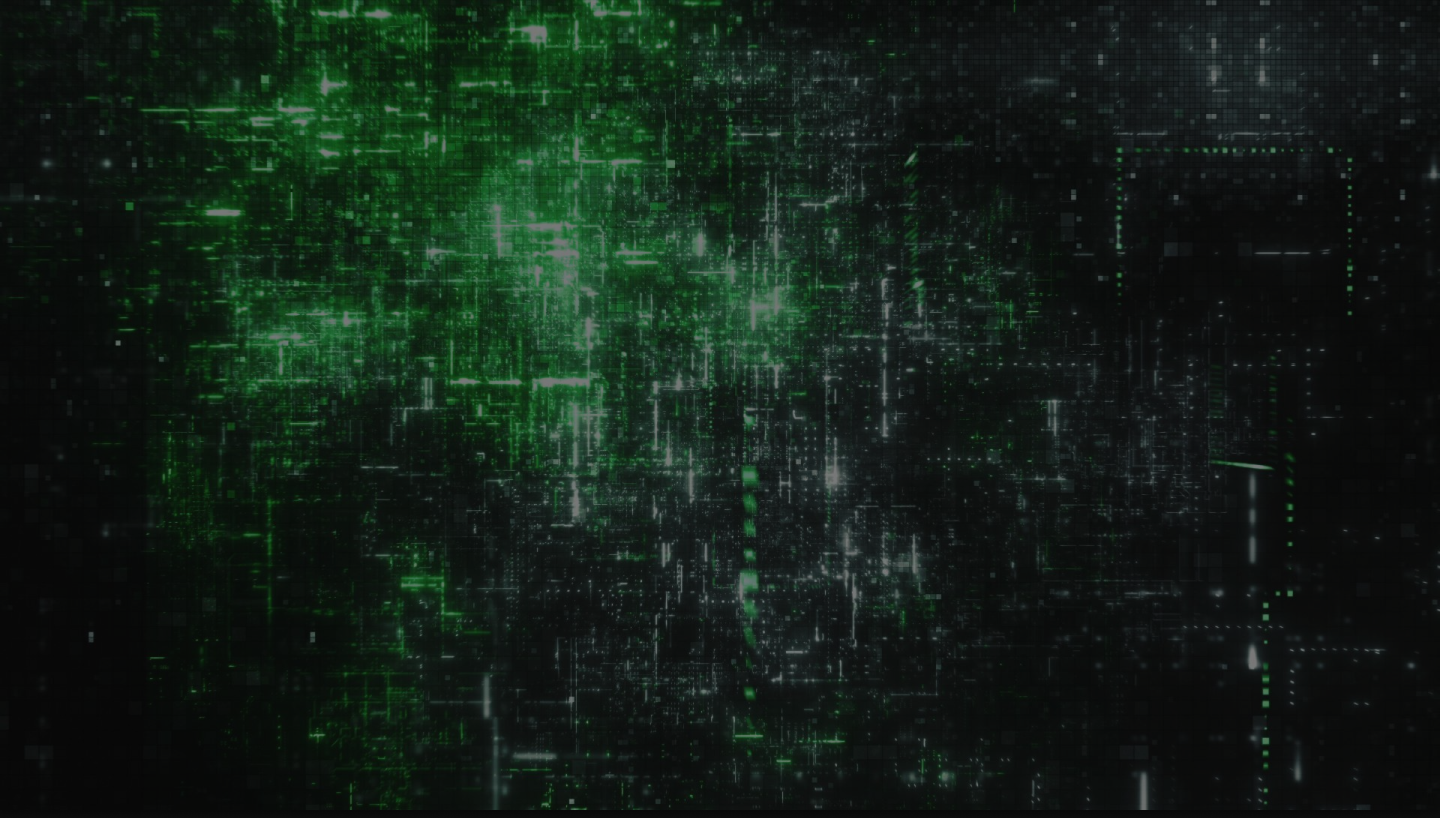
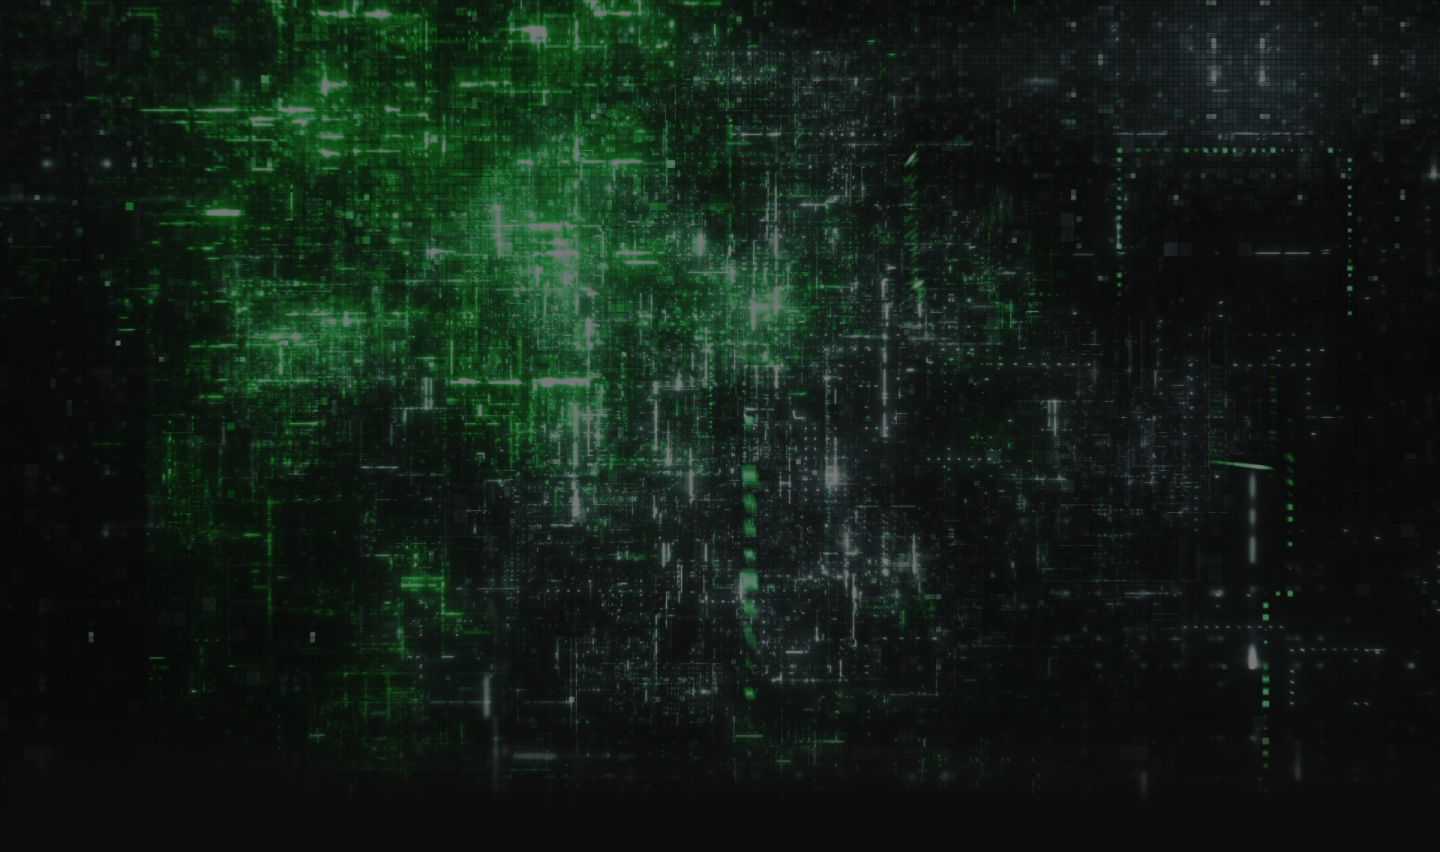
rechng the hero bg img

diff --git a/index.html b/index.html
@@ -13,7 +13,7 @@
 
 <body class="color-bdoyGreen">
     <header class="bg_hero min-vh-md-100 min-vh-70 d-flex flex-column position-relative">
-        <div class="hero_linear_grident position-absolute position_linearGrident bottom_9 d-md-block d-none"></div>
+        <!-- <div class="hero_linear_grident position-absolute position_linearGrident bottom_9 d-md-block d-none"></div> -->
         <nav class="nav_box">
             <div class="nav_container_1350">
                 <div class="d-flex align-items-center justify-content-between h_90">
@@ -52,7 +52,7 @@
                     <div class="mx-auto text-center mb_md_33 mb_5"><img class="h_100"
                             src="./assets/images/svg/hero-logo.svg" alt="hero-logo">
                     </div>
-                    <h1 class="ff-outfit fw-semibold text64-xl lh-61 color-white max_w_582 text-center mb_35">Experts in
+                    <h1 class="ff_outfit fw-semibold text64-xl lh-61 color-white max_w_582 text-center mb_35">Experts in
                         Cyber
                         Security</h1>
                     <div class="mx-auto text-center"><button
